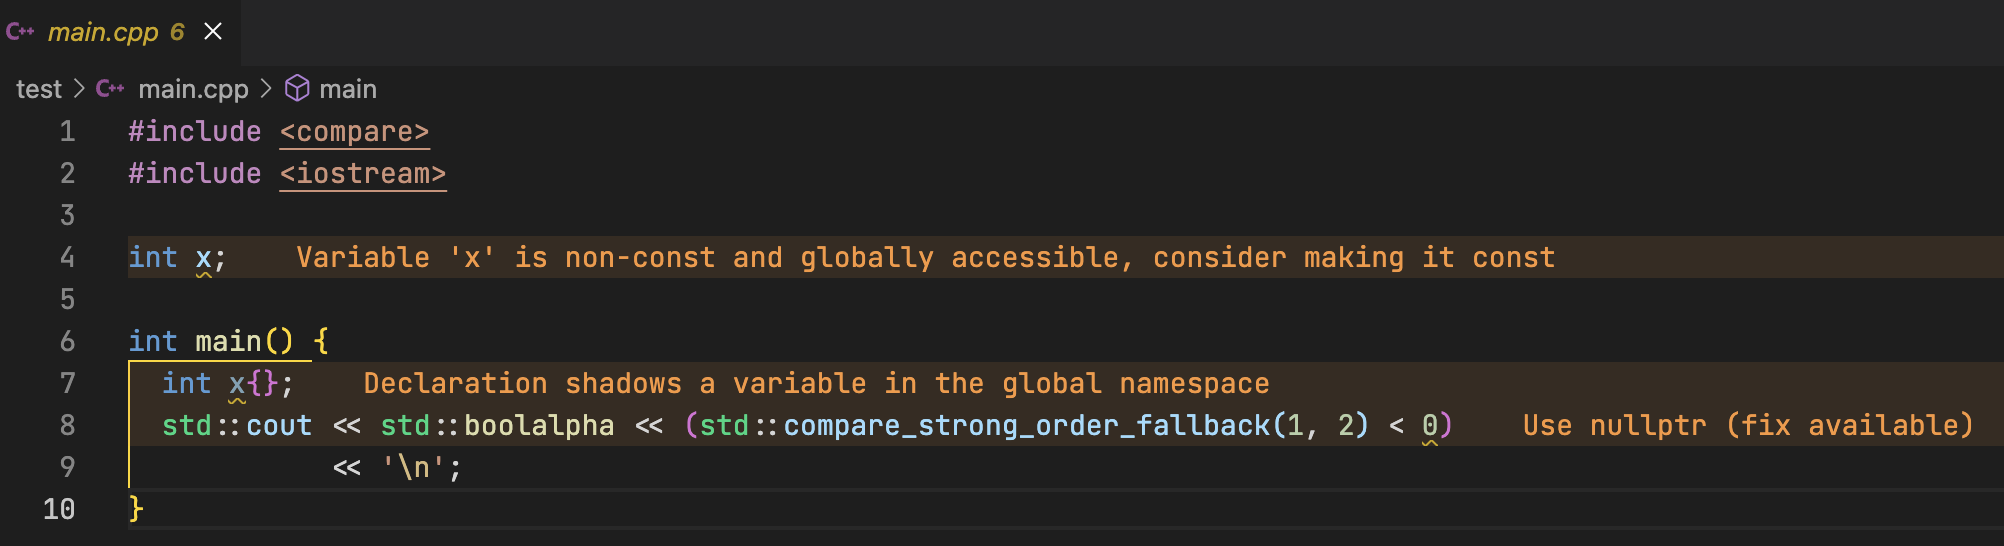
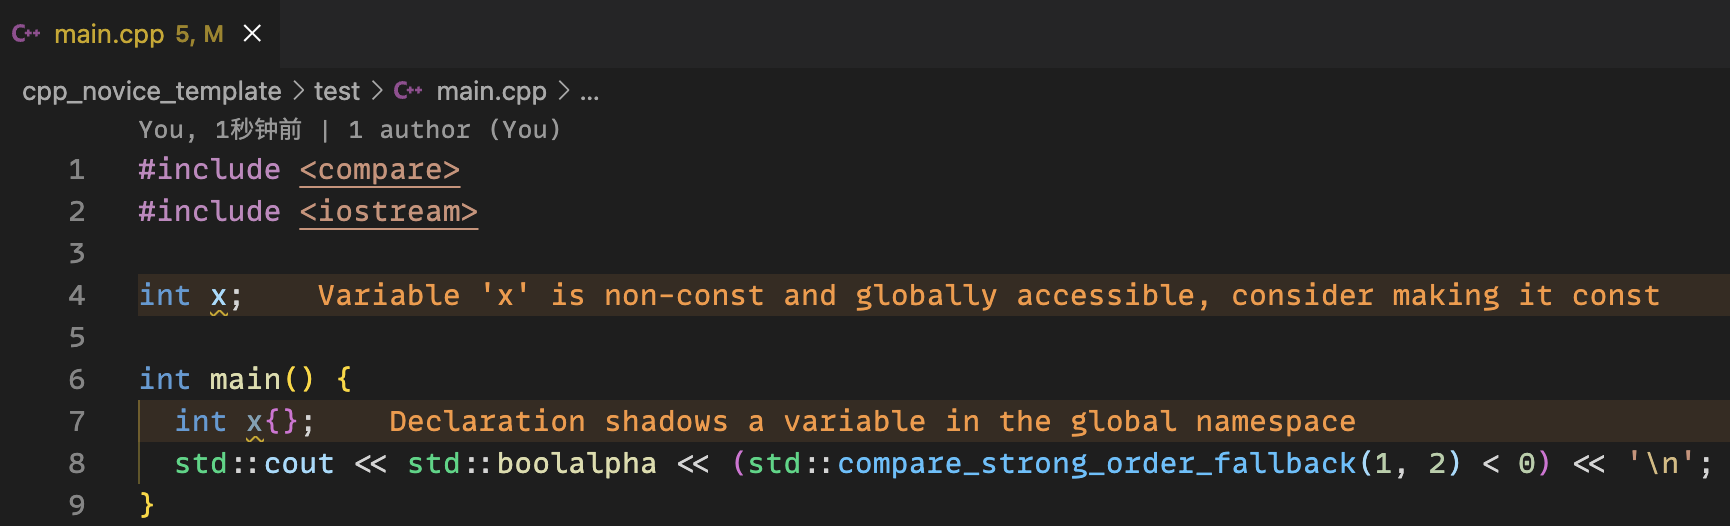
提示如何开启或关闭内嵌提示

diff --git a/verify/diagnostics/main.rst b/verify/diagnostics/main.rst
@@ -10,3 +10,15 @@
 .. figure:: 诊断信息示例.png
 
   诊断信息
+
+此外, 代码高亮软件 clangd 还提供了一些内嵌提示, 你可以通过 :KBD:`Ctrl` + :KBD:`Shift` + :KBD:`P` 或 :KBD:`Command⌘` + :KBD:`Shift` + :KBD:`P` 打开命令菜单, 输入 ``inlay`` 以找到 :menuselection:`clangd: Toggle inlay hints`, :KBD:`回车` 来开启或关闭:
+
+.. tabs::
+
+  .. tab:: 无内嵌提示
+
+    .. figure:: 无内嵌提示.png
+
+  .. tab:: 有内嵌提示
+
+    .. figure:: 有内嵌提示.png
